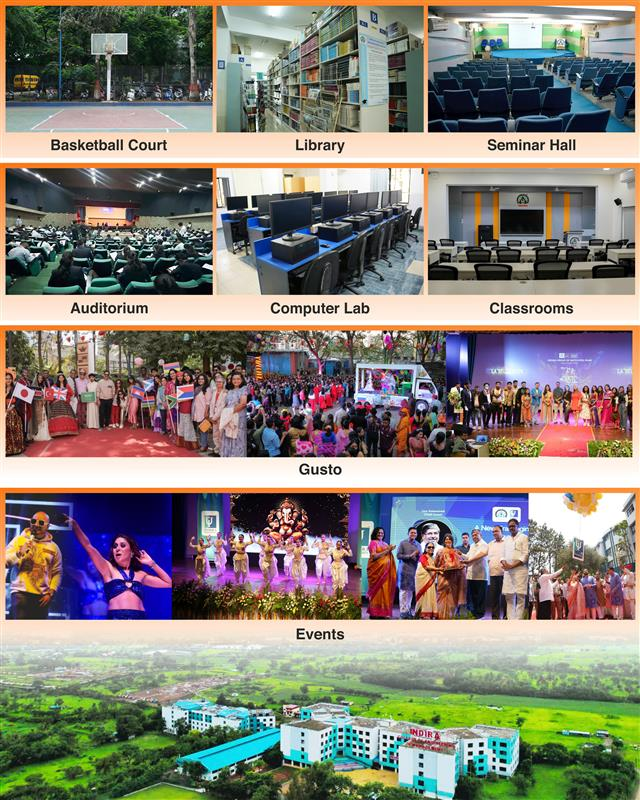
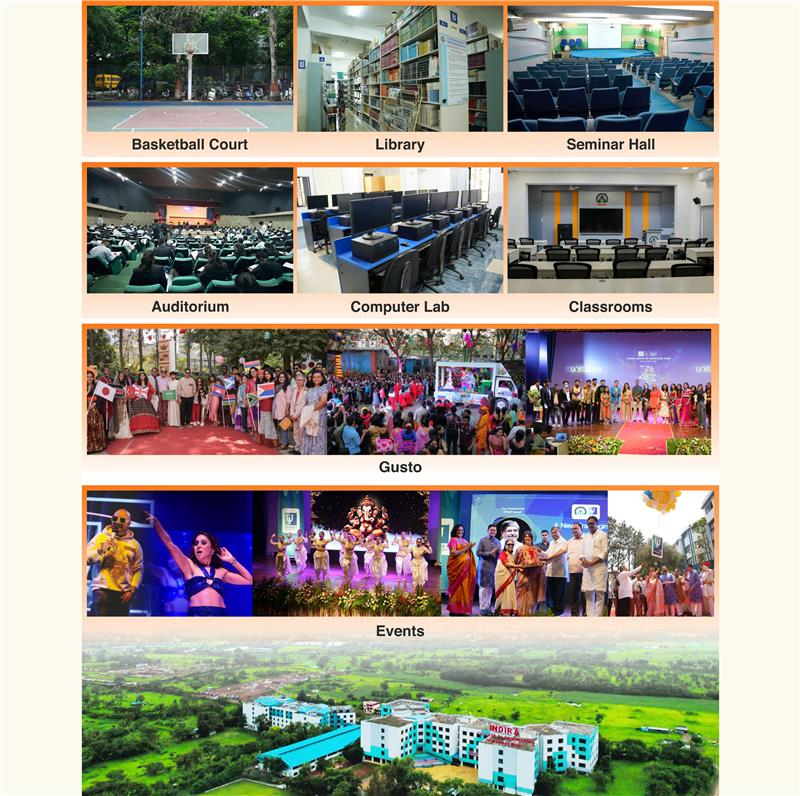
push

diff --git a/src/components/IntegratedMcaBca/IntegratedMcaBcaStudying.jsx b/src/components/IntegratedMcaBca/IntegratedMcaBcaStudying.jsx
@@ -1,3 +1,121 @@
+// import React, { useEffect } from 'react';
+// import {
+//   FaStar,
+//   FaBuilding,
+//   FaUsers,
+//   FaLaptop,
+//   FaGraduationCap,
+//   FaChartLine,
+//   FaTrophy,
+//   FaMedal,
+//   FaAward,
+// } from 'react-icons/fa';
+// import AOS from 'aos';
+// import 'aos/dist/aos.css';
+// import MyImage from '../../assets/images/Com-Images/ICEM-Infraa.jpg';
+ 
+// const highlights = [
+//   {
+//     icon: <FaMedal className="text-4xl text-[#f37021]" />,
+//     text: (
+//       <>
+//         Ranked <b>49th</b> in <b>Top 100</b> Private Engineering Institutes and Ranked <b>61st</b> in <b>Top 140 Engineering</b> Institutes conducted by <b>Times of India Engineering Colleges</b>.
+//       </>
+//     ),
+//   },
+//   {
+//     icon: <FaAward className="text-4xl text-[#f37021]" />,
+//     text: (
+//       <>
+//         Ranking Survey – <b>2019</b><br />
+//         Winners of <b>SmartIndia Hackathon</b> for consecutive three years organized by Ministry of <b>HRD, AICTE</b> in association with <b>NASSCOM</b>.
+//       </>
+//     ),
+//   },
+//   {
+//     icon: <FaTrophy className="text-4xl text-[#f37021]" />,
+//     text: (
+//       <>
+//         Received <b>Outstanding Education Institute (West)</b> Award by National Education <b>Awards 2018</b>.
+//       </>
+//     ),
+//   },
+// ];
+ 
+// const IntegratedBbaMbaStuddying = () => {
+//   useEffect(() => {
+//     AOS.init({
+//       duration: 1000,
+//       easing: 'ease-in-out',
+//       once: true,
+//     });
+//   }, []);
+ 
+//   return (
+//     <div className="flex flex-col md:flex-row px-4 sm:px-6 md:px-10 lg:px-16 py-6 poppins-regular bg-[#FCFAEE] overflow-hidden">
+//       {/* Left Side */}
+//       <div className="w-full md:w-[65%] md:pr-8" data-aos="fade-right">
+//         <h1 className="text-3xl  md:text-5xl font-bold mb-2 text-[#555555]">Invent, Integrate, Impact.</h1>
+//         <h2 className="text-xl sm:text-2xl md:text-2xl font-semibold text-[#f37021] mb-4">Integrated BCA + MCA</h2>
+//         <p className="text-sm sm:text-md md:text-lg mb-6 text-[#555555]">
+//         Indira College of Engineering & Management offers a future-focused <b>5-year Integrated BCA-MCA course after 12th, </b>
+//         blending tech education with hands-on experience. The campus features <b>advanced computer labs </b>, modern <b>libraries </b>,
+//          digital <b> laboratories </b>, spacious <b>hostels</b>, reliable <b>transportation</b>, a hygienic <b>canteen </b>, and top-notch <b>sports </b> facilities. 
+//          With top tech <b>events</b>, expert mentorship, and an industry-aligned curriculum, it's one of the <b>best colleges for
+//           integrated BCA MCA. </b>
+//         </p>
+ 
+//         {/* Grid Cards */}
+//         <div className="grid grid-cols-1 sm:grid-cols-2 gap-4 mb-4">
+//           {[
+//             { icon: <FaStar />, label: "2 DECADES OF ACADEMIC EXCELLENCE" },
+//             { icon: <FaUsers />, label: "450+ LEADING RECRUITERS" },
+//             { icon: <FaBuilding />, label: "INDUSTRY GUEST LECTURE & MENTORSHIP" },
+//             { icon: <FaLaptop />, label: "TOP PLACEMENTS OFFERED" },
+//             { icon: <FaGraduationCap />, label: "IT & APPLE LABS" },
+//             { icon: <FaChartLine />, label: "EXCEPTIONAL GROWTH OPPORTUNITIES" },
+//           ].map((item, idx) => (
+//             <div
+//               key={idx}
+//               className="bg-[#FCFAEE] p-4 shadow-md border border-[#f37021] rounded-lg flex items-center"
+//               data-aos="zoom-in"
+//             >
+//               <div className="text-2xl sm:text-3xl text-[#555555] mr-4">{item.icon}</div>
+//               <p className="text-sm sm:text-base text-[#333]">{item.label}</p>
+//             </div>
+//           ))}
+//         </div>
+ 
+//         {/* Highlights Section */}
+//         <div className="p-2 rounded-xl">
+//           <div className="grid grid-cols-1 sm:grid-cols-2 md:grid-cols-3 gap-6 p-2">
+//             {highlights.map((item, index) => (
+//               <div
+//                 key={index}
+//                 className="bg-gradient-to-br from-[#f37021]/20 to-[#FCFAEE] rounded-xl p-6 shadow-sm flex flex-col items-center text-center"
+//               >
+//                 <div className="mb-4">{item.icon}</div>
+//                 <p className="text-[#555555] text-sm leading-relaxed">{item.text}</p>
+//               </div>
+//             ))}
+//           </div>
+//         </div>
+//       </div>
+ 
+//       {/* Right Side - Image */}
+//       <div className="w-full md:w-[35%] mt-10 md:mt-0" data-aos="fade-left">
+//         <img
+//           src={MyImage}
+//           alt="Indira College"
+//           className="w-full h-full object-cover rounded-lg shadow-lg border border-[#555555]"
+//         />
+//       </div>
+//     </div>
+//   );
+// };
+ 
+// export default IntegratedBbaMbaStuddying;
+
 import React, { useEffect } from 'react';
 import {
   FaStar,
@@ -12,7 +130,8 @@ import {
 } from 'react-icons/fa';
 import AOS from 'aos';
 import 'aos/dist/aos.css';
-import MyImage from '../../assets/images/Com-Images/ICEM-Infraa.jpg';
+import MyImage from '../../assets/images/Com-Images/ICEM-Infra4.png';
+ 
  
 const highlights = [
   {
@@ -42,7 +161,7 @@ const highlights = [
   },
 ];
  
-const IntegratedBbaMbaStuddying = () => {
+const IntegratedBcaMcaStuddying = () => {
   useEffect(() => {
     AOS.init({
       duration: 1000,
@@ -52,43 +171,54 @@ const IntegratedBbaMbaStuddying = () => {
   }, []);
  
   return (
-    <div className="flex flex-col md:flex-row px-4 sm:px-6 md:px-10 lg:px-16 py-6 poppins-regular bg-[#FCFAEE] overflow-hidden">
-      {/* Left Side */}
-      <div className="w-full md:w-[65%] md:pr-8" data-aos="fade-right">
-        <h1 className="text-3xl  md:text-5xl font-bold mb-2 text-[#555555]">Invent, Integrate, Impact.</h1>
-        <h2 className="text-xl sm:text-2xl md:text-2xl font-semibold text-[#f37021] mb-4">Integrated BCA + MCA</h2>
-        <p className="text-sm sm:text-md md:text-lg mb-6 text-[#555555]">
-        Indira College of Engineering & Management offers a future-focused <b>5-year Integrated BCA-MCA course after 12th, </b>
-        blending tech education with hands-on experience. The campus features <b>advanced computer labs </b>, modern <b>libraries </b>,
-         digital <b> laboratories </b>, spacious <b>hostels</b>, reliable <b>transportation</b>, a hygienic <b>canteen </b>, and top-notch <b>sports </b> facilities. 
-         With top tech <b>events</b>, expert mentorship, and an industry-aligned curriculum, it's one of the <b>best colleges for
-          integrated BCA MCA. </b>
-        </p>
+    <div className="w-full bg-[#FCFAEE] py-10 px-4 sm:px-6 md:px-10 lg:px-16 overflow-hidden">
+      <div className="flex flex-col md:flex-row gap-8 items-stretch">
+        {/* Left Content */}
+        <div
+          className="w-full md:w-[60%] flex flex-col justify-between"
+          data-aos="fade-right"
+        >
+          <div>
+            <h1 className="text-3xl md:text-5xl font-bold text-[#555555] mb-2">
+              Invent, Integrate, Impact.
+            </h1>
+            <h2 className="text-xl sm:text-2xl font-semibold text-[#f37021] mb-4">
+              Integrated BCA + MCA
+            </h2>
+            <p className="text-sm sm:text-md md:text-lg mb-6 text-[#555555]">
+    Indira College of Engineering & Management offers a future-focused <b>5-year Integrated BCA-MCA course after 12th, </b>
+         blending tech education with hands-on experience. The campus features <b>advanced computer labs </b>, modern <b>libraries </b>,
+          digital <b> laboratories </b>, spacious <b>hostels</b>, reliable <b>transportation</b>, a hygienic <b>canteen </b>, and top-notch <b>sports </b> facilities. 
+          With top tech <b>events</b>, expert mentorship, and an industry-aligned curriculum, it's one of the <b>best colleges for
+           integrated BCA MCA. </b>
+         </p>
  
-        {/* Grid Cards */}
-        <div className="grid grid-cols-1 sm:grid-cols-2 gap-4 mb-4">
-          {[
-            { icon: <FaStar />, label: "2 DECADES OF ACADEMIC EXCELLENCE" },
-            { icon: <FaUsers />, label: "450+ LEADING RECRUITERS" },
-            { icon: <FaBuilding />, label: "INDUSTRY GUEST LECTURE & MENTORSHIP" },
-            { icon: <FaLaptop />, label: "TOP PLACEMENTS OFFERED" },
-            { icon: <FaGraduationCap />, label: "IT & APPLE LABS" },
-            { icon: <FaChartLine />, label: "EXCEPTIONAL GROWTH OPPORTUNITIES" },
-          ].map((item, idx) => (
-            <div
-              key={idx}
-              className="bg-[#FCFAEE] p-4 shadow-md border border-[#f37021] rounded-lg flex items-center"
-              data-aos="zoom-in"
-            >
-              <div className="text-2xl sm:text-3xl text-[#555555] mr-4">{item.icon}</div>
-              <p className="text-sm sm:text-base text-[#333]">{item.label}</p>
+            {/* Grid Cards */}
+            <div className="grid grid-cols-1 sm:grid-cols-2 gap-4 mb-6">
+              {[
+                { icon: <FaStar />, label: '2 DECADES OF ACADEMIC EXCELLENCE' },
+                { icon: <FaUsers />, label: '450+ LEADING RECRUITERS' },
+                { icon: <FaBuilding />, label: 'INDUSTRY GUEST LECTURE & MENTORSHIP' },
+                { icon: <FaLaptop />, label: 'TOP PLACEMENTS OFFERED' },
+                { icon: <FaGraduationCap />, label: 'IT & APPLE LABS' },
+                { icon: <FaChartLine />, label: 'EXCEPTIONAL GROWTH OPPORTUNITIES' },
+              ].map((item, idx) => (
+                <div
+                  key={idx}
+                  className="bg-[#FCFAEE] p-4 shadow-md border border-[#f37021] rounded-lg flex items-center min-h-[100px]"
+                  data-aos="zoom-in"
+                >
+                  <div className="text-2xl sm:text-3xl text-[#555555] mr-4">
+                    {item.icon}
+                  </div>
+                  <p className="text-sm sm:text-base text-[#333]">{item.label}</p>
+                </div>
+              ))}
             </div>
-          ))}
-        </div>
+          </div>
  
-        {/* Highlights Section */}
-        <div className="p-2 rounded-xl">
-          <div className="grid grid-cols-1 sm:grid-cols-2 md:grid-cols-3 gap-6 p-2">
+          {/* Highlights Section */}
+          <div className="grid grid-cols-1 md:grid-cols-3 gap-6 w-full break-words">
             {highlights.map((item, index) => (
               <div
                 key={index}
@@ -100,18 +230,20 @@ const IntegratedBbaMbaStuddying = () => {
             ))}
           </div>
         </div>
-      </div>
  
-      {/* Right Side - Image */}
-      <div className="w-full md:w-[35%] mt-10 md:mt-0" data-aos="fade-left">
-        <img
-          src={MyImage}
-          alt="Indira College"
-          className="w-full h-full object-cover rounded-lg shadow-lg border border-[#555555]"
-        />
+        {/* Right Image */}
+        <div className="w-full md:w-[40%] flex" data-aos="fade-left">
+          <div className="w-full rounded-lg h-full md:h-auto overflow-hidden ">
+            <img
+              src={MyImage}
+              alt="Indira College"
+              className="w-full h-full object-cover object-left"
+            />
+          </div>
+        </div>
       </div>
     </div>
   );
 };
  
-export default IntegratedBbaMbaStuddying;
+export default IntegratedBcaMcaStuddying;
